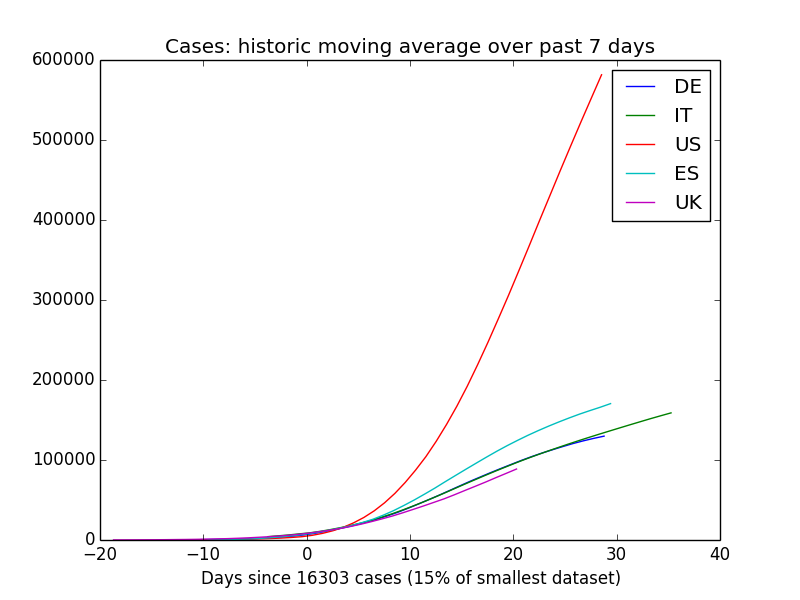
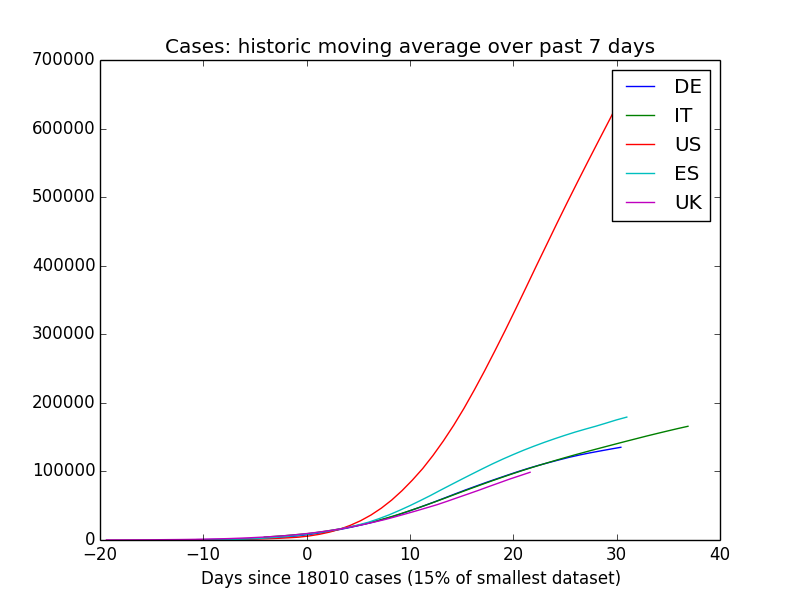
Update plots with data from Aril, 19th

diff --git a/README.md b/README.md
@@ -2,7 +2,7 @@
 
 Data is taken from the [2019 Novel Coronavirus COVID-19 Data Repository by Johns Hopkins CSSE](https://github.com/CSSEGISandData/COVID-19)
 
-### Last update: 17.04.2020
+### Last update: 19.04.2020
 
 ### Cases
 
